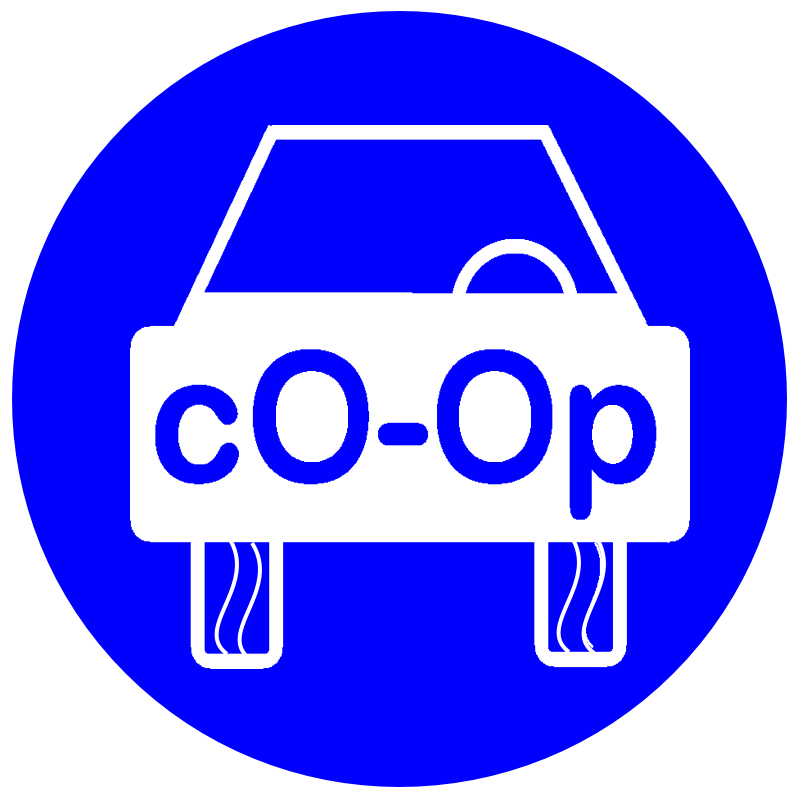
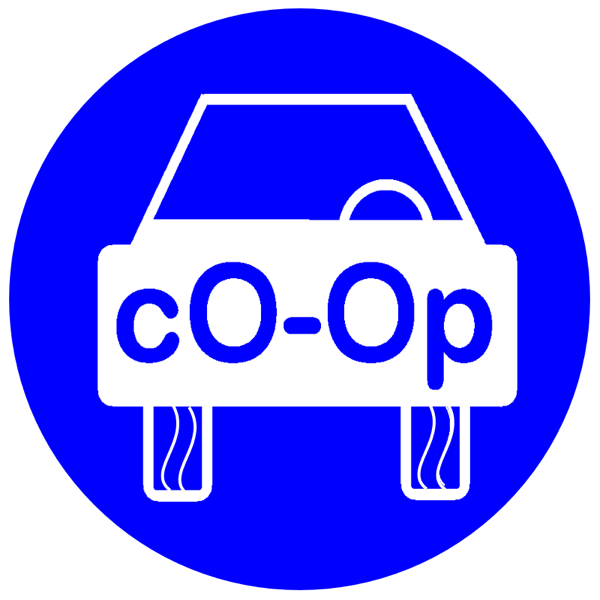
3.02

diff --git a/index.html b/index.html
@@ -32,16 +32,17 @@
 
     <div class="container-fluid">
       <a href="home.html">
-        <div class="img-responsive">
-      <img
-      src="img/cO-Op.jpg"
-      alt="ride.coop"
-      style="width:600px;height:600px;"
-      class="img-responsive center-block"></a>
+        <div class="logo">
+        <div class="logo-img">
+          <img
+          src="img/cO-Op.png"
+          alt="ride.coop"
+          class="img-responsive center-block"></a>
         </div>
-      <div class="starter-template">
-        <h1>a ridesharing cooperative</h1>
-      </div>
+            <div class="starter-template">
+            <h1>a ridesharing cooperative</h1>
+          </div>
+        </div>
       <footer class="footer">
         <p>&copy; Kirtley Wienbroer 2015</p>
       </footer>

diff --git a/drivers.html b/drivers.html
@@ -16,8 +16,6 @@
 
     <!-- Custom styles for this template -->
     <link href="css/jumbotron-narrow.css" rel="stylesheet">
-    <link href="css/starter-template.css" rel="stylesheet">
-
 
     <!-- Just for debugging purposes. Don't actually copy these 2 lines! -->
     <!--[if lt IE 9]><script src="../../assets/js/ie8-responsive-file-warning.js"></script><![endif]-->

diff --git a/home.html b/home.html
@@ -16,8 +16,6 @@
 
     <!-- Custom styles for this template -->
     <link href="css/jumbotron-narrow.css" rel="stylesheet">
-    <link href="css/starter-template.css" rel="stylesheet">
-
 
     <!-- Just for debugging purposes. Don't actually copy these 2 lines! -->
     <!--[if lt IE 9]><script src="../../assets/js/ie8-responsive-file-warning.js"></script><![endif]-->

diff --git a/passengers.html b/passengers.html
@@ -16,8 +16,6 @@
 
     <!-- Custom styles for this template -->
     <link href="css/jumbotron-narrow.css" rel="stylesheet">
-    <link href="css/starter-template.css" rel="stylesheet">
-
 
     <!-- Just for debugging purposes. Don't actually copy these 2 lines! -->
     <!--[if lt IE 9]><script src="../../assets/js/ie8-responsive-file-warning.js"></script><![endif]-->

diff --git a/css/starter-template.css b/css/starter-template.css
@@ -5,3 +5,17 @@ body {
   padding: 40px 15px;
   text-align: center;
 }
+.logo{
+  text-align: center;
+}
+
+.logo-img {
+  width: auto;
+  max-width: 100%;
+  height: auto;
+  max-height: 100%;
+}
+
+.logo-text {
+  text-align: center;
+}
